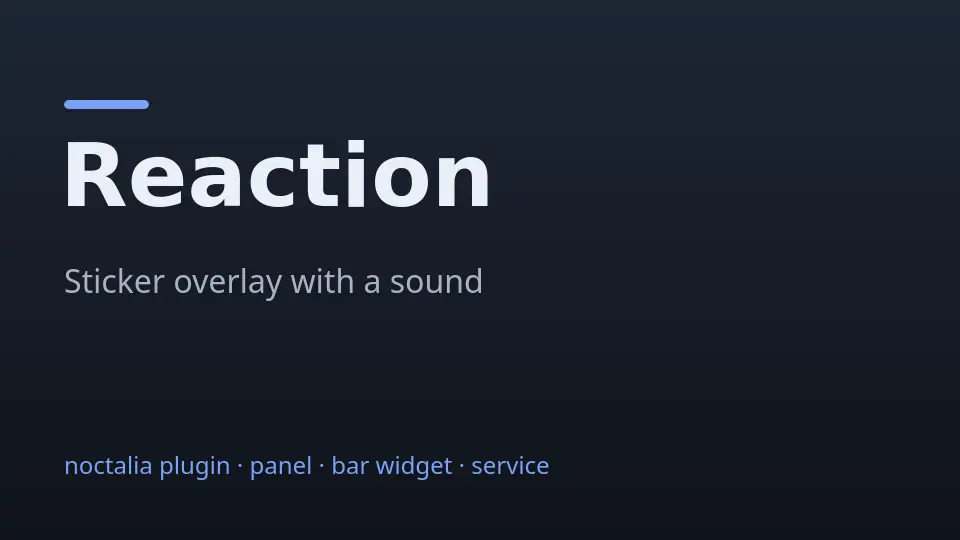
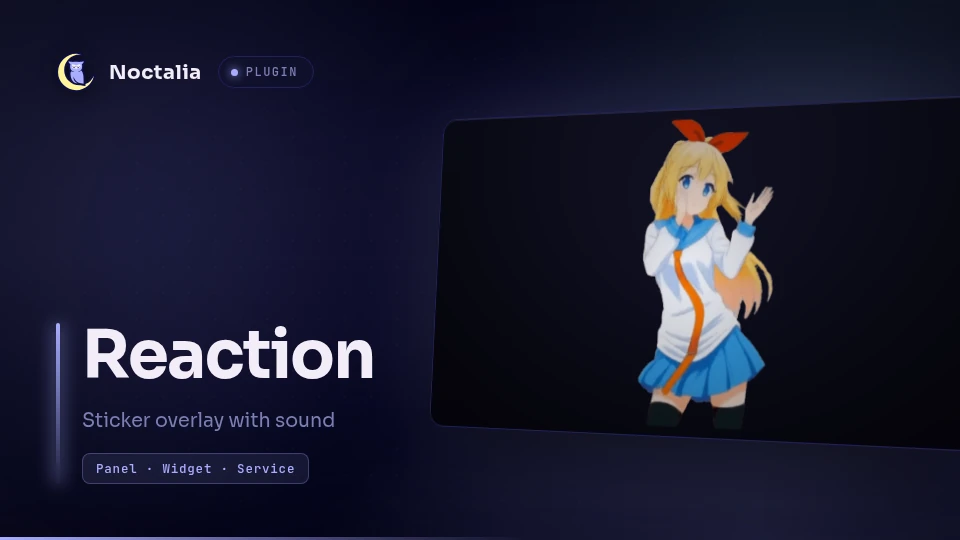
fix(reaction): regenerate thumbnail with the official generator
The previous thumbnail was not produced by the official generator (no
Noctalia branding, different layout), which made the PR checklist item
false. Regenerated at 960x540 with the sticker as the panel image.

Also document that the trigger key is a compositor keybind: Noctalia does
not expose global shortcuts to plugins, so the key cannot live in the
plugin settings.

diff --git a/reaction/README.md b/reaction/README.md
@@ -23,12 +23,40 @@ screen is yours again.
 
 ## Usage
 
-Show the sticker from anywhere, for example from a Hyprland keybind, a script or
-another plugin:
+The plugin never grabs a key on its own: Noctalia plugins cannot register global
+shortcuts, so the trigger key is a keybind in **your compositor** that runs the
+IPC command below. Pick whatever combination you like and set it there:
 
 ```sh
 noctalia msg plugin miixz/reaction:service all trigger
 ```
+
+### Keybind examples
+
+**Hyprland** (Lua config):
+
+```lua
+hl.bind(
+    "SUPER + SHIFT + R",
+    hl.dsp.exec_cmd("noctalia msg plugin miixz/reaction:service all trigger")
+)
+```
+
+**Niri** (`config.kdl`):
+
+```kdl
+binds {
+    Mod+Shift+R { spawn "noctalia" "msg" "plugin" "miixz/reaction:service" "all" "trigger"; }
+}
+```
+
+**Sway / Scroll**:
+
+```
+bindsym $mod+Shift+r exec noctalia msg plugin miixz/reaction:service all trigger
+```
+
+Any other compositor works the same way as long as it can run a command on a key.
 
 Triggering again while the sticker is on screen restarts it instead of closing
 it. To dismiss it early:
@@ -67,6 +95,10 @@ image stays for `hold_ms`. Either way the sticker fades out in the last 250 ms.
 | `opacity` | `double` | `1.0` | Maximum sticker opacity, before the fade-out. |
 | `hold_ms` | `int` | `2500` | How long a static sticker stays on screen. |
 | `extra_ms` | `int` | `250` | Extra time on screen after an animated GIF has finished. |
+
+The trigger key is deliberately **not** a plugin setting: Noctalia does not expose
+global shortcuts to plugins, so it lives in your compositor's keybind config (see
+[Usage](#usage)). What the key runs is the IPC command below.
 
 ## IPC
 

diff --git a/.github/pr-body.md b/.github/pr-body.md
@@ -14,6 +14,12 @@ with a sound, then let it close itself. It can pick a single file or choose
 randomly/sequentially from a folder of stickers, so one keypress can cycle
 through a whole set of reaction GIFs.
 
+The trigger key is deliberately not a plugin setting. Noctalia does not expose
+global shortcuts to plugins, so the key is any compositor keybind that runs
+`noctalia msg plugin miixz/reaction:service all trigger`. `README.md` documents
+that command together with ready-to-paste Hyprland, Niri and Sway examples, so the
+user picks their own key in the compositor instead of a hardcoded one.
+
 The plugin ships three entries:
 
 - `service` owns the trigger path and keeps GIF frame caches warm.
@@ -42,8 +48,9 @@ in `README.md`.
 What was exercised:
 
 - The plugin is installed and enabled on the author's Hyprland session with
-  Noctalia 5.2.1. G3 triggers the sticker through `miixz/game-clip` when no game
-  is focused.
+  Noctalia 5.2.1. The sticker is triggered by a compositor keybind that runs
+  `noctalia msg plugin miixz/reaction:service all trigger`; every other
+  activation path (bar tile, direct IPC) was exercised too.
 - Single-file mode, folder mode with random selection, and sequential selection
   were tested with multiple GIFs and static images.
 - Short GIFs loop to stay on screen for at least 1.5 s.
